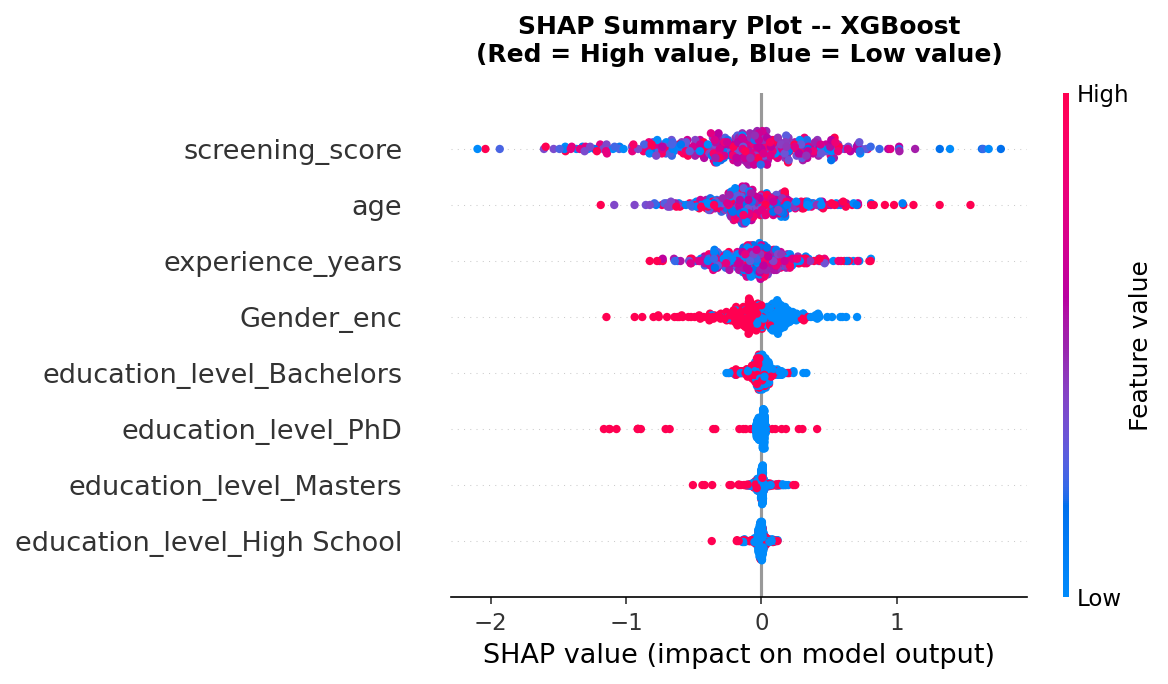
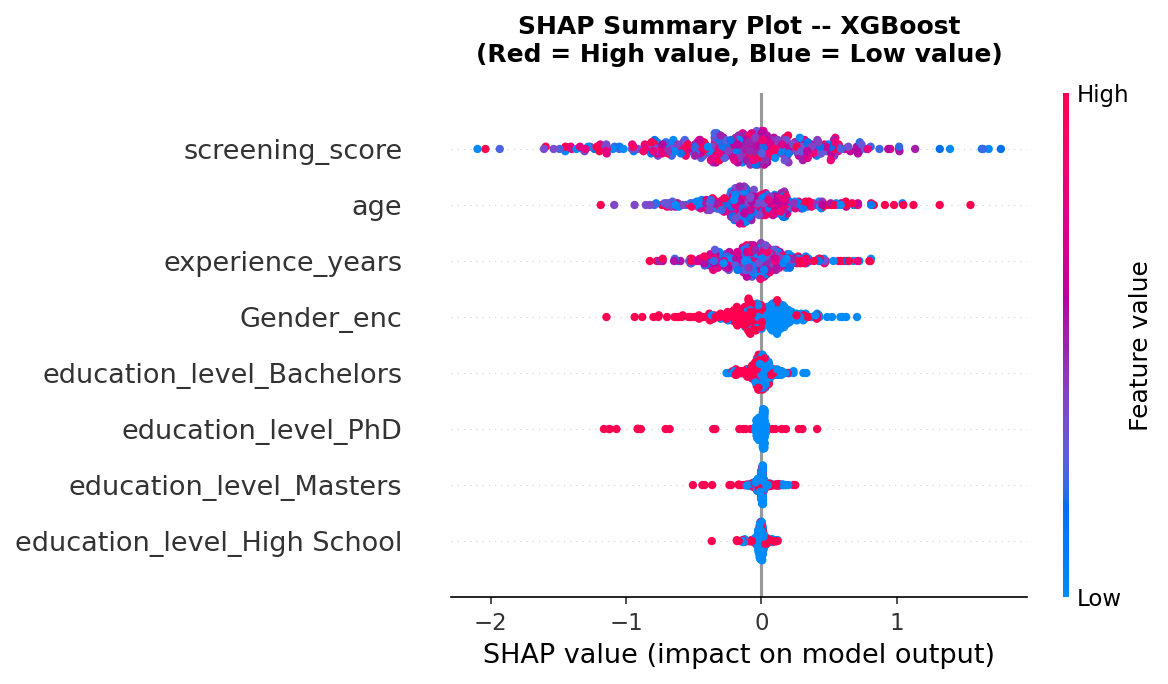
Fix SyntaxError in download script and update SHAP beeswarm plot

diff --git a/00_download_dataset.py b/00_download_dataset.py
@@ -1,4 +1,4 @@
-"""
+r"""
 =============================================================
 STEP 0 -- Download Dataset from Kaggle
 =============================================================